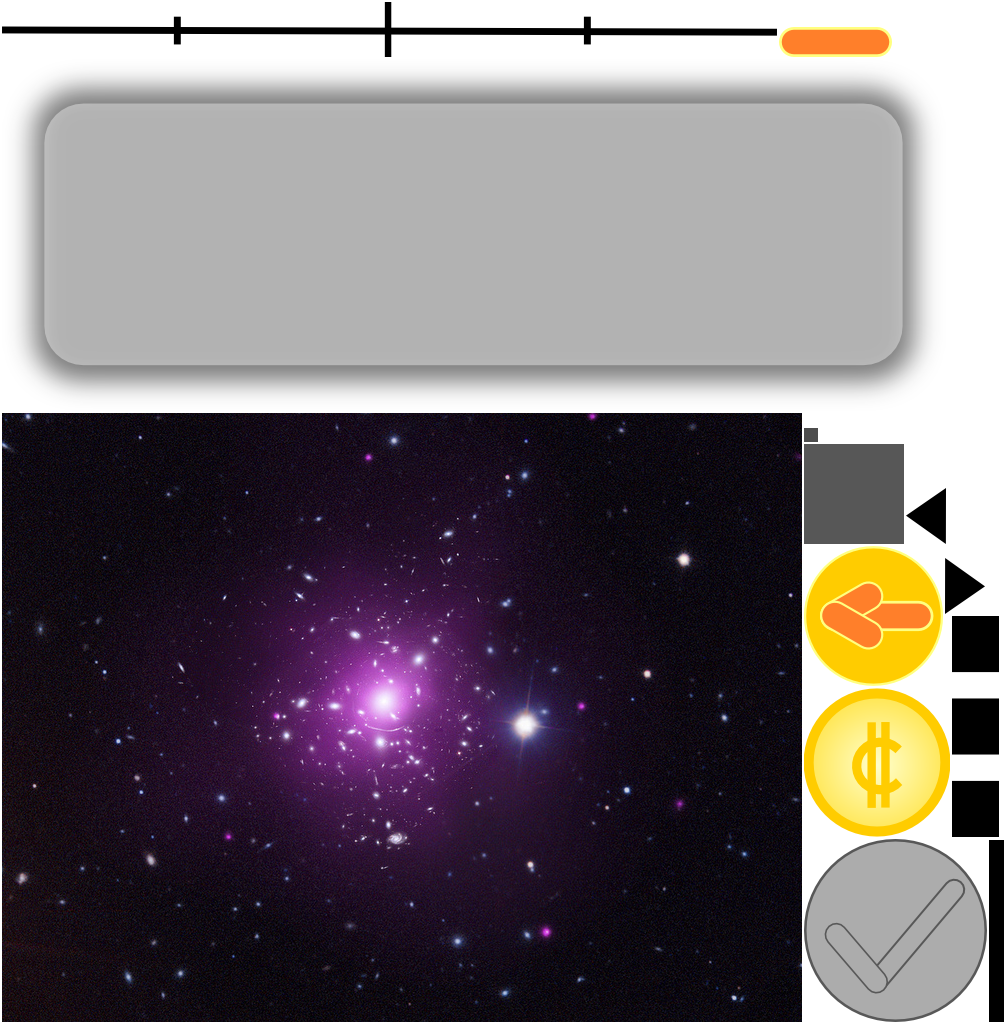
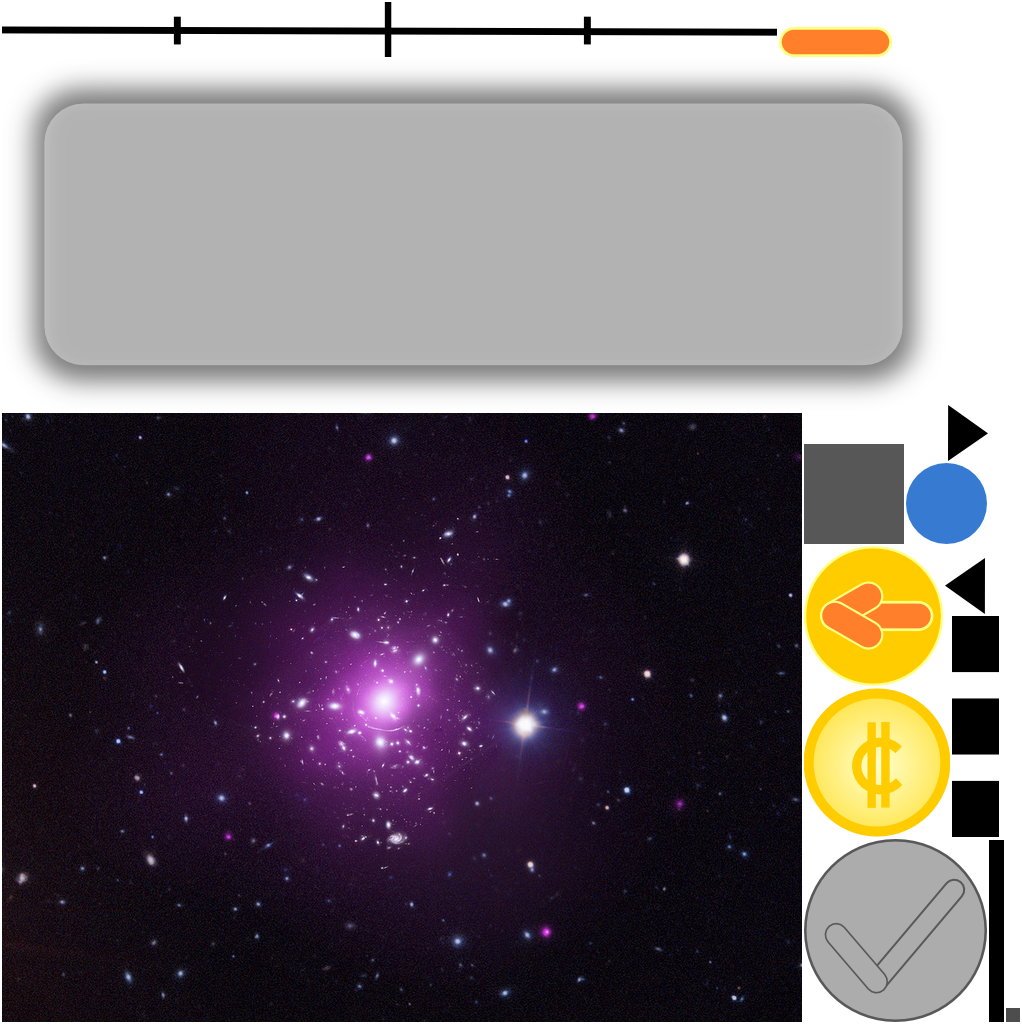
Added a CountLabel we can use to show when you have games to continue or invites on the Main UI. Also fixed some of the language around the Move HUD

diff --git a/GalCon-Client/GalCon-Client/src/com/xxx/galcon/screen/hud/SingleMoveInfoHud.java b/GalCon-Client/GalCon-Client/src/com/xxx/galcon/screen/hud/SingleMoveInfoHud.java
@@ -36,11 +36,11 @@ public class SingleMoveInfoHud extends Group {
 
 	private void createLabels() {
 		{
-			ShaderLabel label = new ShaderLabel(fontShader, "Sending", skin, Constants.UI.DEFAULT_FONT);
+			ShaderLabel label = new ShaderLabel(fontShader, "# of ships", skin, Constants.UI.DEFAULT_FONT);
 			TextBounds bounds = label.getTextBounds();
 			label.setX(getX());
 			label.setY(getHeight() * 0.7f - bounds.height * 0.5f);
-			label.setWidth(getWidth() * 0.5f);
+			label.setWidth(getWidth() * 0.4f);
 			label.setAlignment(Align.center, Align.center);
 			addActor(label);
 		}
@@ -49,27 +49,27 @@ public class SingleMoveInfoHud extends Group {
 			TextBounds bounds = label.getTextBounds();
 			label.setX(getX());
 			label.setY(getHeight() * 0.15f - bounds.height * 0.5f);
-			label.setWidth(getWidth() * 0.5f);
+			label.setWidth(getWidth() * 0.4f);
 			label.setAlignment(Align.center, Align.center);
 			addActor(label);
 
 			shipsLabel = label;
 		}
 		{
-			ShaderLabel label = new ShaderLabel(fontShader, "Turns to arrive", skin, Constants.UI.DEFAULT_FONT);
+			ShaderLabel label = new ShaderLabel(fontShader, "Rounds to impact", skin, Constants.UI.DEFAULT_FONT);
 			TextBounds bounds = label.getTextBounds();
-			label.setX(getWidth() * 0.5f);
+			label.setX(getWidth() * 0.4f);
 			label.setY(getHeight() * 0.7f - bounds.height * 0.5f);
-			label.setWidth(getWidth() * 0.5f);
+			label.setWidth(getWidth() * 0.6f);
 			label.setAlignment(Align.center, Align.center);
 			addActor(label);
 		}
 		{
 			ShaderLabel label = new ShaderLabel(fontShader, "0", skin, Constants.UI.LARGE_FONT);
 			TextBounds bounds = label.getTextBounds();
-			label.setX(getWidth() * 0.5f);
+			label.setX(getWidth() * 0.4f);
 			label.setY(getHeight() * 0.15f - bounds.height * 0.5f);
-			label.setWidth(getWidth() * 0.5f);
+			label.setWidth(getWidth() * 0.6f);
 			label.setAlignment(Align.center, Align.center);
 			addActor(label);
 

diff --git a/GalCon-Client/GalCon-Client/src/com/xxx/galcon/screen/signin/MainMenuScreen.java b/GalCon-Client/GalCon-Client/src/com/xxx/galcon/screen/signin/MainMenuScreen.java
@@ -24,6 +24,7 @@ import com.xxx.galcon.Constants;
 import com.xxx.galcon.GameLoop;
 import com.xxx.galcon.PartialScreenFeedback;
 import com.xxx.galcon.Strings;
+import com.xxx.galcon.UISkin;
 import com.xxx.galcon.http.AuthenticationListener;
 import com.xxx.galcon.http.GameAction;
 import com.xxx.galcon.http.SocialAction;
@@ -34,6 +35,7 @@ import com.xxx.galcon.screen.GraphicsUtils;
 import com.xxx.galcon.screen.overlay.DismissableOverlay;
 import com.xxx.galcon.screen.overlay.Overlay;
 import com.xxx.galcon.screen.overlay.TextOverlay;
+import com.xxx.galcon.screen.widget.CountLabel;
 import com.xxx.galcon.screen.widget.ShaderLabel;
 import com.xxx.galcon.screen.widget.WaitImageButton;
 
@@ -178,8 +180,29 @@ public class MainMenuScreen implements PartialScreenFeedback {
 		
 		addFbButton();
 		addGpButton();
+		addContinueCount();
+		addInviteCount();
 	}
 	
+	private void addContinueCount() {
+		CountLabel countLabel = new CountLabel("2", fontShader, (UISkin) skin);
+		countLabel.setX((Gdx.graphics.getWidth() / 2) + (continueLabel.getTextBounds().width * 0.6f));
+		countLabel.setY(continueLabel.getY() + (continueLabel.getHeight() * 0.2f));
+		
+		stage.addActor(countLabel);
+		actors.add(countLabel);
+	}
+	
+	private void addInviteCount() {
+		CountLabel countLabel = new CountLabel("1", fontShader, (UISkin) skin);
+		countLabel.setX((Gdx.graphics.getWidth() / 2) + (inviteLabel.getTextBounds().width * 0.6f));
+		countLabel.setY(inviteLabel.getY()+ (inviteLabel.getHeight() * 0.2f));
+		
+		stage.addActor(countLabel);
+		actors.add(countLabel);
+		
+	}
+
 	private void addGpButton() {
 		gpButton = new ImageButton(skin, Constants.UI.GOOGLE_PLUS_SIGN_IN_NORMAL);
 		gpButton.setX(fbButton.getX() + (fbButton.getWidth() * 1.1f));

diff --git a/GalCon-Client/GalCon-Client/src/com/xxx/galcon/screen/widget/CountLabel.java b/GalCon-Client/GalCon-Client/src/com/xxx/galcon/screen/widget/CountLabel.java
@@ -1,0 +1,52 @@
+package com.xxx.galcon.screen.widget;
+
+import com.badlogic.gdx.assets.AssetManager;
+import com.badlogic.gdx.graphics.g2d.TextureAtlas;
+import com.badlogic.gdx.graphics.g2d.TextureAtlas.AtlasRegion;
+import com.badlogic.gdx.graphics.glutils.ShaderProgram;
+import com.badlogic.gdx.scenes.scene2d.Group;
+import com.badlogic.gdx.scenes.scene2d.ui.Image;
+import com.badlogic.gdx.scenes.scene2d.ui.ImageButton;
+import com.badlogic.gdx.scenes.scene2d.utils.Align;
+import com.badlogic.gdx.scenes.scene2d.utils.TextureRegionDrawable;
+import com.xxx.galcon.Constants;
+import com.xxx.galcon.UISkin;
+import com.xxx.galcon.screen.GraphicsUtils;
+
+public class CountLabel extends Group {
+	
+	private String count;
+	private ImageButton background;
+
+	private ShaderLabel countLabel;
+
+	
+	private ShaderProgram fontShader;
+	private UISkin skin;
+	
+	public CountLabel(String count, ShaderProgram fontShader, UISkin skin){
+		this.count = count;
+		this.fontShader = fontShader;
+		this.skin = skin;
+		
+		createBg();
+		createCountLabel();
+	}
+
+	private void createBg() {
+		background = new ImageButton(skin, Constants.UI.COUNT_LABEL);
+		background.setSize(GraphicsUtils.actionButtonSize * 0.4f, GraphicsUtils.actionButtonSize * 0.4f);
+		
+		addActor(background);
+		
+	}
+
+	private void createCountLabel() {
+		countLabel = new ShaderLabel(fontShader, count, skin, Constants.UI.SMALL_FONT);
+		countLabel.setX((background.getX() + (background.getWidth() / 2)) - (countLabel.getTextBounds().width / 2));
+		countLabel.setY(background.getY() + (background.getHeight() / 2) - (countLabel.getTextBounds().height * 0.7f));
+		
+		addActor(countLabel);
+	}
+
+}

diff --git a/GalCon-Client/GalCon-Client-android/src/com/xxx/galcon/social/GooglePlusAuthorization.java b/GalCon-Client/GalCon-Client-android/src/com/xxx/galcon/social/GooglePlusAuthorization.java
@@ -65,13 +65,17 @@ public class GooglePlusAuthorization implements Authorizer, ConnectionCallbacks,
 
 	@Override
 	public void onConnected(Bundle bundle) {
-		GameLoop.USER.addAuthProvider(Constants.Auth.SOCIAL_AUTH_PROVIDER_GOOGLE, plusClient.getCurrentPerson().getId());
+		if(plusClient.getCurrentPerson() == null){
+			listener.onSignInFailed("Unable to load ID.");
+		}else{
+			GameLoop.USER.addAuthProvider(Constants.Auth.SOCIAL_AUTH_PROVIDER_GOOGLE, plusClient.getCurrentPerson().getId());
 
-		Preferences prefs = Gdx.app.getPreferences(Constants.GALCON_PREFS);
-		prefs.putString(Constants.Auth.SOCIAL_AUTH_PROVIDER_GOOGLE + Constants.ID, GameLoop.USER.auth.getID(Constants.Auth.SOCIAL_AUTH_PROVIDER_GOOGLE));
-		prefs.flush();
+			Preferences prefs = Gdx.app.getPreferences(Constants.GALCON_PREFS);
+			prefs.putString(Constants.Auth.SOCIAL_AUTH_PROVIDER_GOOGLE + Constants.ID, GameLoop.USER.auth.getID(Constants.Auth.SOCIAL_AUTH_PROVIDER_GOOGLE));
+			prefs.flush();
 
-		new RetrieveTokenTask().execute(plusClient.getAccountName());
+			new RetrieveTokenTask().execute(plusClient.getAccountName());
+		}
 	}
 
 	@Override

diff --git a/GalCon-Client/GalCon-Client/src/com/xxx/galcon/UISkin.java b/GalCon-Client/GalCon-Client/src/com/xxx/galcon/UISkin.java
@@ -150,6 +150,10 @@ public class UISkin extends Skin {
 			TextureRegionDrawable trd = new TextureRegionDrawable(socialAtlas.findRegion("galcon_search_custom_normal"));
 			add(Constants.UI.GALCON_SEARCH_IMAGE, new ImageButtonStyle(null, null, null, trd, trd, trd));
 		}
+		{
+			TextureRegionDrawable trd = new TextureRegionDrawable(menusAtlas.findRegion("count_label"));
+			add(Constants.UI.COUNT_LABEL, new ImageButtonStyle(null, null, null, trd, trd, trd));
+		}
 
 		TextureRegionDrawable trd = new TextureRegionDrawable(levelSelectionAtlas.findRegion("reg_play"));
 		add("regularPlay", new ImageButtonStyle(trd, trd, trd, trd, trd, trd));

diff --git a/GalCon-Client/GalCon-Client/src/com/xxx/galcon/Constants.java b/GalCon-Client/GalCon-Client/src/com/xxx/galcon/Constants.java
@@ -47,6 +47,8 @@ public class Constants {
 
 		public static final String GOOGLE_PLUS_SIGN_IN_NORMAL = "googlePlusSignInImageButton";
 		public static final String GALCON_SEARCH_IMAGE = "galconSearchImage";
+		public static final String COUNT_LABEL = "countLabel";
+
 
 	}
 
